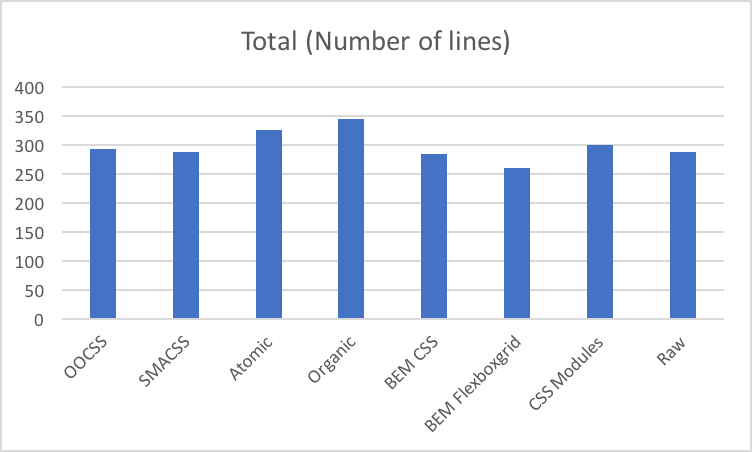
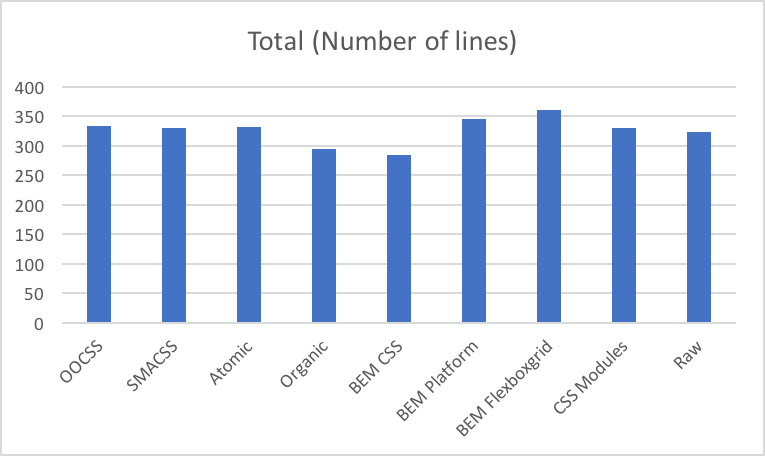
Statistics update

diff --git a/Gruntfile.js b/Gruntfile.js
@@ -6,7 +6,7 @@ module.exports = function(grunt) {
           'atomic/style.css',
           'bem-css/style.css',
           'bem-flexboxgrid/style.css',
-          'bem-flexboxgrid/style_clear.css',
+          'bem-platform/pages/index/index.css',
           'css-modules/build/style.css',
           'oocss/style.css',
           'organic/style.css',
@@ -16,7 +16,7 @@ module.exports = function(grunt) {
           'smacss/modules.css',
           'smacss/states.css',
           'smacss/themes.css'
-        ],
+        ]
       }
     }
   });
@@ -24,4 +24,4 @@ module.exports = function(grunt) {
   grunt.loadNpmTasks('grunt-css-count');
    
   grunt.registerTask('default', ['csscount']);
-}
+};
